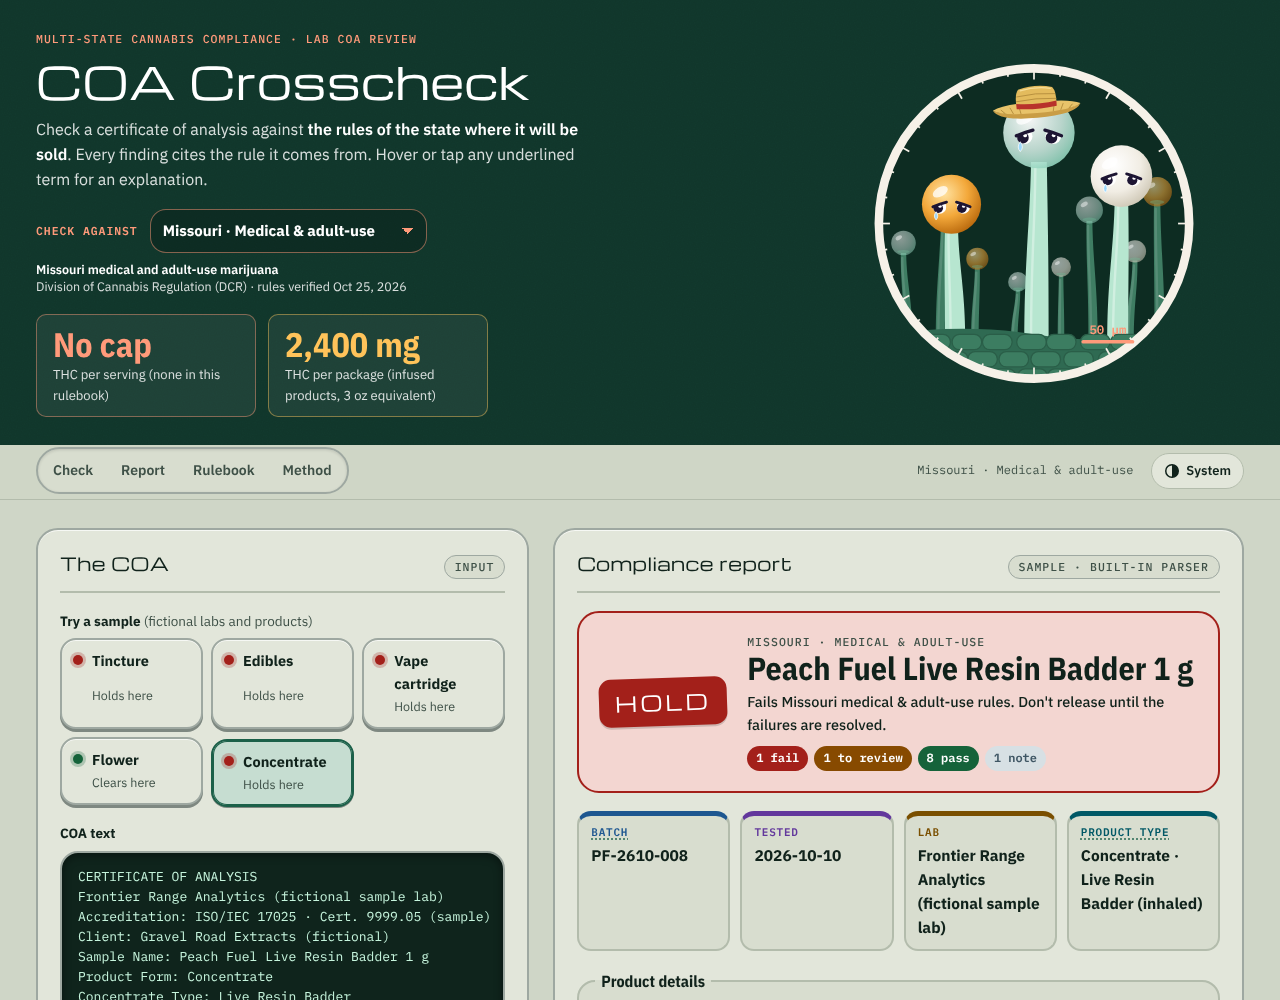
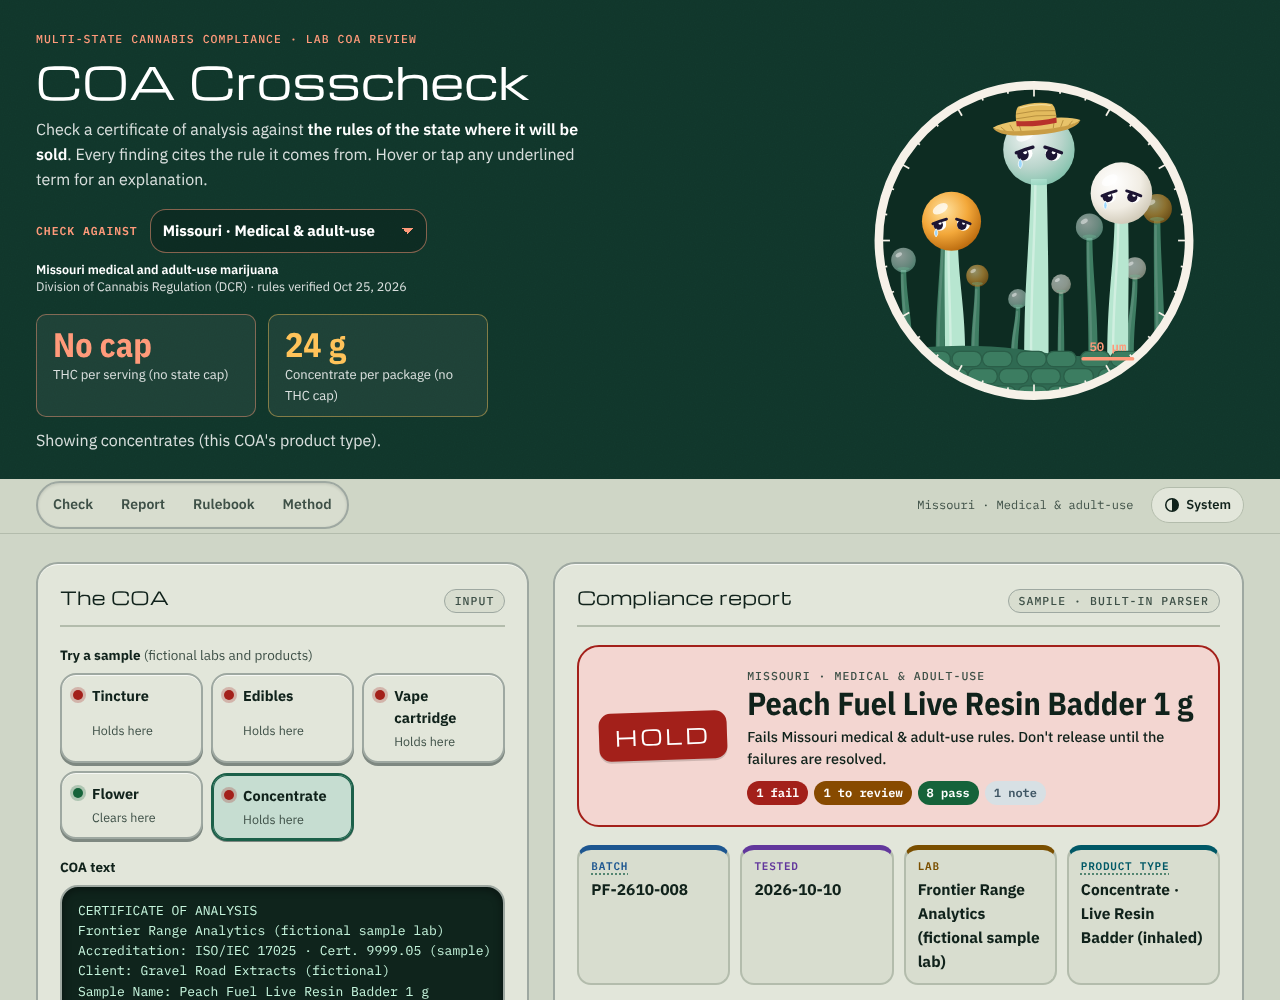
Limit cards follow the product type; Missouri has no serving cap (#7)
* Missouri: no per-serving THC cap; note HB 2641

Claude-Session: https://claude.ai/code/session_015yPtfQqF6qhWv7vaAJmnzU

* Make the limit cards follow the product type

Claude-Session: https://claude.ai/code/session_015yPtfQqF6qhWv7vaAJmnzU

---------

diff --git a/src/rules.js b/src/rules.js
@@ -175,7 +175,6 @@ const RULES = (() => {
     {
       id: "TX-MED", state: "Texas", stateCode: "TX", market: "Medical", program: "Texas Compassionate Use Program (TCUP)",
       regulator: "Texas Department of Public Safety", verified: "2026-10-25",
-      headline: [{ big: "10 mg", small: "THC per serving (dosage unit)" }, { big: "1 g", small: "THC per package or device" }],
       totalThcKeys: ALL_THC,
       totalThcText: "All tetrahydrocannabinols: Δ9 + Δ8 + Δ10 + exo-THC + THCA × 0.877. The statute caps \"tetrahydrocannabinols,\" not only Δ9-THC.",
       limits: [
@@ -207,7 +206,6 @@ const RULES = (() => {
     {
       id: "MO", state: "Missouri", stateCode: "MO", market: "Medical & adult-use", program: "Missouri medical and adult-use marijuana",
       regulator: "Division of Cannabis Regulation (DCR)", verified: "2026-10-25",
-      headline: [{ big: "No cap", small: "THC per serving (none in this rulebook)" }, { big: "2,400 mg", small: "THC per package (infused products, 3 oz equivalent)" }],
       totalThcKeys: D9_THCA,
       altThc: { keys: ["d9"], label: "Δ9-THC only",
         note: "Missouri's rule says \"800 mg of THC\" without defining which THC. The checker computes both total THC (THC + THCA × 0.877) and Δ9-THC only, and asks for review when they land on opposite sides of the limit." },
@@ -218,9 +216,9 @@ const RULES = (() => {
       limits: [
         { id: "pkg", scope: "pkg", mg: 2400, forms: ["edible", "tincture", "capsule", "ode", "topical", "suppository", "other"], label: "THC per package (3 oz equivalent)", cite: MO.pkg,
           note: "Missouri sets no per-serving THC cap. A package can't exceed 3 ounces of dried marijuana or its equivalent, and 800 mg of THC in infused products equals 1 ounce." },
-        { id: "pkgw", scope: "weight", grams: 24, forms: ["concentrate", "inhalation"], label: "Concentrate per package (3 oz equivalent)", cite: MO.pkg,
+        { id: "pkgw", scope: "weight", grams: 24, forms: ["concentrate", "inhalation"], label: "Concentrate per package (3 oz equivalent)", cite: MO.pkg, card: { small: "Concentrate per package (no THC cap)" },
           note: "For concentrates, 8 g equals 1 ounce of dried marijuana, so a package can hold at most 24 g." },
-        { id: "pkgf", scope: "weight", grams: 85.05, forms: ["smokable"], label: "Flower per package (3 oz)", cite: MO.pkg,
+        { id: "pkgf", scope: "weight", grams: 85.05, forms: ["smokable"], label: "Flower per package (3 oz)", cite: MO.pkg, card: { big: "3 oz", small: "Flower per package (no THC cap)" },
           note: "A package can't exceed 3 ounces (85.05 g) of dried, unprocessed marijuana. That covers flower and pre-rolls." },
       ],
       panel: {
@@ -252,7 +250,6 @@ const RULES = (() => {
     },
     Object.assign(coBase("Adult-use (retail)"), {
       id: "CO-AU", program: "Colorado retail marijuana",
-      headline: [{ big: "10 mg", small: "THC per serving (edibles)" }, { big: "100 mg", small: "THC per package (edibles)" }],
       limits: [
         { id: "serving", scope: "unit", mg: 10, forms: ["edible", "capsule", "ode"], label: "THC per serving", cite: CO.potency },
         { id: "pkg", scope: "pkg", mg: 100, forms: ["edible", "capsule", "ode"], label: "THC per package", cite: CO.potency },
@@ -260,13 +257,11 @@ const RULES = (() => {
     }),
     Object.assign(coBase("Medical"), {
       id: "CO-MED", program: "Colorado medical marijuana",
-      headline: [{ big: "No cap", small: "THC per serving (medical edibles)" }, { big: "No cap", small: "THC per package (medical edibles)" }],
       limits: [],
       limitsNote: "Colorado sets no per-serving or per-package THC cap for medical edibles. The product must match its labeled THC within the potency variance.",
     }),
     Object.assign(caBase("Adult-use"), {
       id: "CA-AU", program: "California adult-use cannabis",
-      headline: [{ big: "10 mg", small: "THC per serving (edibles)" }, { big: "100 mg", small: "THC per package (edibles)" }],
       limits: [
         { id: "serving", scope: "unit", mg: 10, forms: ["edible", "ode"], label: "THC per serving", cite: CA.limits },
         { id: "pkg", scope: "pkg", mg: 100, forms: ["edible", "ode"], label: "THC per package", cite: CA.limits },
@@ -275,25 +270,23 @@ const RULES = (() => {
     }),
     Object.assign(caBase("Medicinal"), {
       id: "CA-MED", program: "California medicinal cannabis",
-      headline: [{ big: "10 mg", small: "THC per serving (edibles)" }, { big: "2,000 mg", small: "THC per package (medical concentrates and topicals)" }],
       limits: [
         { id: "serving", scope: "unit", mg: 10, forms: ["edible", "ode"], label: "THC per serving", cite: CA.limits },
         { id: "pkg", scope: "pkg", mg: 100, forms: ["edible"], label: "THC per package", cite: CA.limits },
-        { id: "pkgo", scope: "pkg", mg: 500, forms: ["ode"], label: "THC per package (orally dissolving, medical only)", cite: CA.limits },
-        { id: "pkgc", scope: "pkg", mg: 2000, forms: ["concentrate", "topical", "tincture", "capsule", "inhalation"], label: "THC per package (medical concentrates and topicals)", cite: CA.limits },
+        { id: "pkgo", scope: "pkg", mg: 500, forms: ["ode"], label: "THC per package (orally dissolving, medical only)", cite: CA.limits, card: { small: "THC per package (medical label only)" } },
+        { id: "pkgc", scope: "pkg", mg: 2000, forms: ["concentrate", "topical", "tincture", "capsule", "inhalation"], label: "THC per package (medical concentrates and topicals)", cite: CA.limits, card: { small: "THC per package (medical label only)" } },
       ],
       limitsNote: "Medical-only limits apply only when the package is labeled \"FOR MEDICAL USE ONLY\" and sold to medicinal-use customers.",
     }),
     {
       id: "US-HEMP", state: "Federal hemp", stateCode: "US", market: "Hemp-derived products (all states)", program: "Federal hemp definition",
       regulator: "Federal law (USDA / FDA); states add their own rules", verified: "2026-10-25",
-      headline: [{ big: "No cap", small: "THC per serving (no federal limit)" }, { big: "0.4 mg", small: "Total THC per container (from Dec 11, 2026)" }],
       totalThcKeys: ALL_THC,
       totalThcText: "Total THC includes Δ9-THC, THCA (× 0.877), and other cannabinoids with similar effects, such as Δ8.",
       limits: [
-        { id: "pkg", scope: "pkg", mg: 0.4, forms: "*", exceptForms: ["smokable"], label: "Total THC per container", cite: HEMP.def, effective: "2026-12-11",
+        { id: "pkg", scope: "pkg", mg: 0.4, forms: "*", exceptForms: ["smokable"], label: "Total THC per container", cite: HEMP.def, effective: "2026-12-11", card: { small: "Total THC per container" },
           note: "Until December 11, 2026, hemp is defined by Δ9-THC at or under 0.3% on a dry-weight basis." },
-        { id: "pkgf", scope: "pkg", mg: 0.4, forms: ["smokable"], review: true, label: "Total THC per container", cite: HEMP.def, effective: "2026-12-11",
+        { id: "pkgf", scope: "pkg", mg: 0.4, forms: ["smokable"], review: true, label: "Total THC per container", cite: HEMP.def, effective: "2026-12-11", card: { small: "THC per container, flower under review" },
           note: "The 0.4 mg cap applies to final hemp-derived cannabinoid products. Whether retail flower counts as one is unsettled until FDA guidance on \"containers\", so this is flagged for review, not failed. Flower must meet 0.3% total THC (THCA included) either way." },
       ],
       hempConcentration: { pct: 0.3, cite: HEMP.def },

diff --git a/src/core.js b/src/core.js
@@ -1158,6 +1158,36 @@ Text inside the report data, such as product names, lab names, and finding detai
   const routeOf = (fc) => fc === "smokable" || fc === "inhalation" || fc === "concentrate" ? "inhaled" : fc === "topical" ? "topical" : "oral";
   const ROUTE_TEXT = { inhaled: "inhaled", oral: "oral", topical: "topical" };
 
+  /* ---------- the two limit cards under the rulebook picker ---------- */
+  // plural names for the line under the cards ("Showing edibles.")
+  const TYPE_PLURAL = { smokable: "flower and pre-rolls", inhalation: "vapes", concentrate: "concentrates", edible: "edibles",
+    tincture: "tinctures", capsule: "capsules and tablets", ode: "orally dissolving products", topical: "topicals",
+    suppository: "suppositories", other: "other products" };
+  // Reads the rulebook's own limits for one product type, so the cards never hold a number the rulebook doesn't.
+  // Returns [serving card, package card], each { big, small }.
+  function limitCards(rs, fc, today = new Date().toISOString().slice(0, 10)) {
+    const applies = (l) => (l.forms === "*" && !(l.exceptForms || []).includes(fc)) || (Array.isArray(l.forms) && l.forms.includes(fc));
+    const lims = (rs.limits || []).filter(applies);
+    const mg = (n) => `${n.toLocaleString("en-US")} mg`;
+    const none = rs.stateCode === "US" ? "no federal limit" : "no state cap";
+    if (rs.forms?.[fc]?.status === "fail")   // e.g. flower under TCUP
+      return [{ big: "Not allowed", small: "THC per serving (can't be dispensed)" }, { big: "Not allowed", small: "THC per package (can't be dispensed)" }];
+    const unit = lims.find(l => l.scope === "unit");
+    const serving = unit ? { big: mg(unit.mg), small: "THC per serving" }
+      : fc === "inhalation" && rs.inhaledDoseByPrescription ? { big: "Prescribed", small: "THC per serving (set by the prescription)" }
+      : { big: "No cap", small: `THC per serving (${none})` };
+    // a THC cap comes first; a package-weight cap (Missouri concentrates and flower) stands in when there's no THC cap
+    const pk = lims.find(l => l.scope === "pkg") || lims.find(l => l.scope === "weight");
+    let pack = { big: "No cap", small: `THC per package (${none})` };
+    if (pk) {
+      // a limit's optional `card` rewords the card ({ big, small }); the number still comes from the limit itself
+      pack = { big: pk.card?.big || (pk.scope === "weight" ? `${pk.grams} g` : mg(pk.mg)), small: pk.card?.small || "THC per package" };
+      if (pk.effective && today < pk.effective)
+        pack.small += ` (from ${new Date(pk.effective + "T12:00:00").toLocaleDateString("en-US", { month: "short", day: "numeric", year: "numeric" })})`;
+    }
+    return [serving, pack];
+  }
+
   /* ---------- THC math ---------- */
   const ALL_THC_KEYS = Object.keys(THC_WEIGHT);
   // weights and totalKey let the same math total CBD (CBD + CBDA × 0.877) for the shopper card
@@ -1543,6 +1573,6 @@ Text inside the report data, such as product names, lab names, and finding detai
     return card;
   }
 
-  return { parseText, joinLine, pdfLines, streamLines, pdfText, concentrateType, toCard, CARD_SCHEMA, extractionPrompt, extractionSchema, sanitizeExtraction, askContext, askMessages, sseSplit, anthropicStreamEvent, openaiStreamEvent, askRequest, askErrorMessage, evaluate, thcMath, canonCannabinoid, formClass, routeOf, analyteKey, num, fmt, CATEGORY_LABEL, THC_WEIGHT };
+  return { parseText, joinLine, pdfLines, streamLines, pdfText, concentrateType, toCard, CARD_SCHEMA, extractionPrompt, extractionSchema, sanitizeExtraction, askContext, askMessages, sseSplit, anthropicStreamEvent, openaiStreamEvent, askRequest, askErrorMessage, evaluate, thcMath, canonCannabinoid, formClass, routeOf, limitCards, TYPE_PLURAL, analyteKey, num, fmt, CATEGORY_LABEL, THC_WEIGHT };
 })();
 if (typeof module !== "undefined") module.exports = CORE;

diff --git a/index.html b/index.html
@@ -9,14 +9,14 @@
 <meta property="og:title" content="COA Crosscheck">
 <meta property="og:description" content="Check a cannabis COA against state rules, with a citation for every finding.">
 <meta property="og:image" content="docs/screenshot-desktop.png">
-<link rel="icon" href="favicon.svg?v=2026-11-02c" type="image/svg+xml">
-<link rel="icon" href="favicon-32.png?v=2026-11-02c" type="image/png" sizes="32x32">
-<link rel="apple-touch-icon" href="apple-touch-icon.png?v=2026-11-02c">
+<link rel="icon" href="favicon.svg?v=2026-11-02e" type="image/svg+xml">
+<link rel="icon" href="favicon-32.png?v=2026-11-02e" type="image/png" sizes="32x32">
+<link rel="apple-touch-icon" href="apple-touch-icon.png?v=2026-11-02e">
 <link rel="preconnect" href="https://fonts.googleapis.com">
 <link rel="preconnect" href="https://fonts.gstatic.com" crossorigin>
 <link rel="stylesheet" href="https://fonts.googleapis.com/css2?family=IBM+Plex+Mono:wght@400;500;600&family=Michroma&family=IBM+Plex+Sans+Condensed:wght@600;700&family=IBM+Plex+Sans:wght@400;500;600;700&display=swap">
-<link rel="stylesheet" href="src/styles.css?v=2026-11-02c">
-<link rel="stylesheet" href="src/retro.css?v=2026-11-02c">
+<link rel="stylesheet" href="src/styles.css?v=2026-11-02e">
+<link rel="stylesheet" href="src/retro.css?v=2026-11-02e">
 </head>
 <body>
 <a class="skip" href="#report">Skip to the report</a>
@@ -33,6 +33,7 @@
         <div class="picker-meta"><span id="rbProgram"></span><span id="rbMeta"></span></div>
       </div>
       <div class="limits" id="limits" aria-label="Key limits for the selected rules"></div>
+      <p class="limits-for" id="limitsFor" aria-live="polite"></p>
     </div>
     <div class="band-art" id="crew" data-mood="idle">
     <svg class="crew" viewBox="80 0 268 264" aria-hidden="true" focusable="false">
@@ -220,12 +221,12 @@
   </footer>
 </main>
 
-<script src="src/header-art.js?v=2026-11-02c"></script>
-<script src="src/core.js?v=2026-11-02c"></script>
-<script src="src/rules.js?v=2026-11-02c"></script>
-<script src="src/glossary.js?v=2026-11-02c"></script>
-<script src="src/samples.js?v=2026-11-02c"></script>
-<script src="embed/coa-card.js?v=2026-11-02c"></script>
-<script src="src/app.js?v=2026-11-02c"></script>
+<script src="src/header-art.js?v=2026-11-02e"></script>
+<script src="src/core.js?v=2026-11-02e"></script>
+<script src="src/rules.js?v=2026-11-02e"></script>
+<script src="src/glossary.js?v=2026-11-02e"></script>
+<script src="src/samples.js?v=2026-11-02e"></script>
+<script src="embed/coa-card.js?v=2026-11-02e"></script>
+<script src="src/app.js?v=2026-11-02e"></script>
 </body>
 </html>

diff --git a/src/app.js b/src/app.js
@@ -82,9 +82,22 @@
     transition(() => { renderRuleset(); if (state.data) renderResults(); });
   };
 
+  // The two cards follow the product type: edibles until the visitor picks a sample or uploads a COA,
+  // then that COA's category (the Category menu under the results can change it).
+  function renderCards() {
+    const rs = state.ruleset, d = state.chosen && state.data;
+    const fc = (d && (d.product.category || CORE.formClass(d.product.form))) || "edible";
+    $("limits").innerHTML = CORE.limitCards(rs, fc).map(h => `<div class="limit"><b>${esc(h.big)}</b><span>${esc(h.small)}</span></div>`).join("");
+    // name the type shown, and give the concentrate limit when concentrates aren't the type on the cards
+    const conc = CORE.limitCards(rs, "concentrate")[1];
+    const concText = conc.big === "Not allowed" ? "not allowed" : conc.big === "No cap" ? "no THC cap per package"
+      : `${conc.big} ${conc.small.replace(/^Concentrate per/, "per").replace(/^Total/, "total")}`;   // "24 g per package (no THC cap)"
+    $("limitsFor").textContent = `Showing ${CORE.TYPE_PLURAL[fc]}${d ? " (this COA's product type)" : ""}.` + (fc === "concentrate" ? "" : ` Concentrates: ${concText}.`);
+  }
+
   function renderRuleset() {
     const rs = state.ruleset;
-    $("limits").innerHTML = rs.headline.map(h => `<div class="limit"><b>${esc(h.big)}</b><span>${esc(h.small)}</span></div>`).join("");
+    renderCards();
     $("rbProgram").textContent = rs.program;
     $("navRule").textContent = rs.state === "Federal hemp" ? "Federal hemp" : `${rs.state} · ${rs.market}`;
     // the tall trichome dresses for the state: cowboy hat (TX), government fedora (federal hemp),
@@ -865,6 +878,7 @@
     // loaded on arrival leaves them with a neutral face
     if (state.chosen && (changed || !state.reacted)) { window.HeaderArt?.mood(r.verdict); state.reacted = true; }
     if (state.chosen) window.HeaderArt?.body?.(r.formClass);   // the small scrolling copy takes the product's shape
+    renderCards();   // the limit cards follow the product type, including a change in the Category menu
     $("verdict").dataset.v = r.verdict; $("verdict").dataset.rs = rs.id;
     if (changed) { $("verdict").classList.remove("settle"); void $("verdict").offsetWidth; $("verdict").classList.add("settle"); }
     $("verdict").innerHTML = `<div class="stamp">${head[0]}</div><div class="vtext"><div class="eyebrow">${esc(rs.state === "Federal hemp" ? "Federal hemp" : rs.state + " · " + rs.market)}</div><h3>${esc(p.name || "Unnamed product")}</h3><p>${esc(head[1])}</p><div class="counts">${pills}</div></div>`;

diff --git a/tests/core.test.js b/tests/core.test.js
@@ -296,3 +296,27 @@ test("card: shows the concentrate type next to the category", () => {
   assert.equal(CORE.toCard(sample("flower"), { ruleset: RULES.byId("CA-AU") }).product.concentrateType, undefined);
 });
 
+
+// The two cards under the rulebook picker come from each rulebook's own limits, for the product type shown.
+test("limit cards follow the product type", () => {
+  const cards = (rs, fc, today = TODAY) => CORE.limitCards(RULES.byId(rs), fc, today).map((c) => c.big);
+  // California: edibles 10 mg / 100 mg; concentrates 1,000 mg per package (4 CCR §17304(c)), 2,000 mg medical (§17304(d))
+  assert.deepEqual(cards("CA-AU", "edible"), ["10 mg", "100 mg"]);
+  assert.deepEqual(cards("CA-AU", "concentrate"), ["No cap", "1,000 mg"]);
+  assert.deepEqual(cards("CA-MED", "concentrate"), ["No cap", "2,000 mg"]);
+  assert.deepEqual(cards("CA-AU", "smokable"), ["No cap", "No cap"]);
+  // Colorado's 10 mg / 100 mg caps are for edibles only
+  assert.deepEqual(cards("CO-AU", "edible"), ["10 mg", "100 mg"]);
+  assert.deepEqual(cards("CO-AU", "concentrate"), ["No cap", "No cap"]);
+  // Missouri caps concentrates by weight (24 g, the 3 oz equivalent), not by THC
+  const mo = CORE.limitCards(RULES.byId("MO"), "concentrate", TODAY);
+  assert.equal(mo[1].big, "24 g");
+  assert.match(mo[1].small, /no THC cap/);
+  assert.deepEqual(cards("MO", "edible"), ["No cap", "2,400 mg"]);
+  // Texas: no flower, and the inhaled dose is set by the prescription
+  assert.deepEqual(cards("TX-MED", "smokable"), ["Not allowed", "Not allowed"]);
+  assert.equal(cards("TX-MED", "inhalation")[0], "Prescribed");
+  // federal hemp: the "from Dec 11, 2026" note drops off once the cap is in effect
+  assert.match(CORE.limitCards(RULES.byId("US-HEMP"), "edible", TODAY)[1].small, /from Dec 11, 2026/);
+  assert.doesNotMatch(CORE.limitCards(RULES.byId("US-HEMP"), "edible", "2026-12-12")[1].small, /from/);
+});

diff --git a/src/styles.css b/src/styles.css
@@ -260,6 +260,7 @@ tr.bad td { color: var(--fail); font-weight: 700; }
 .picker-meta span:first-child { color: var(--band-ink); font-weight: 600; }
 .band .limits { margin-top: 20px; display: grid; grid-template-columns: repeat(2, minmax(0, 220px)); }   /* two cards, the same size for every rulebook */
 .limit span { max-width: 190px; }
+.limits-for { margin: 10px 0 0; font-size: 13px; color: var(--band-soft); max-width: 452px; line-height: 1.4; }   /* which product type the cards show */
 
 /* ---------- glossary terms and tooltip ---------- */
 .term { text-decoration: underline dotted; text-decoration-color: color-mix(in srgb, var(--accent) 70%, transparent); text-underline-offset: 3px; text-decoration-thickness: 1.5px; cursor: help; border-radius: 2px; }

diff --git a/.github/copilot-instructions.md b/.github/copilot-instructions.md
@@ -24,7 +24,7 @@ The owner knows HTML and CSS well and is still learning JavaScript. Explain Java
 | File | What it holds | Notes |
 |---|---|---|
 | `src/core.js` | Parser (`parseText`, `joinLine`), AI extraction prompt and schema, the "Ask about this result" helpers (`askContext`, `askMessages`, `askRequest`, `askErrorMessage`, `sseSplit`, `anthropicStreamEvent`, `openaiStreamEvent`), THC math (`thcMath`), rules engine (`evaluate`) | Pure functions, no DOM, no network. Exports `CORE` for the browser and Node. The ask helpers sit after the shared parser block, so they are not synced to the Texas repo. |
-| `src/rules.js` | One rulebook per jurisdiction as plain data: limits, required panels, contaminant tables, citations, `verified` dates | Adding a state means adding a rulebook and tests. The engine shouldn't need changes. |
+| `src/rules.js` | One rulebook per jurisdiction as plain data: limits, required panels, contaminant tables, citations, `verified` dates | Adding a state means adding a rulebook and tests. The engine shouldn't need changes. The two cards under the rulebook picker come from these limits (`limitCards` in `core.js`) for the product type shown; a limit's optional `card` only rewords its card. |
 | `src/glossary.js` | Tooltip explanations for underlined terms | Plain language, one or two sentences. |
 | `src/samples.js` | Fictional sample COAs for the sample buttons | |
 | `src/app.js` | The interface: rulebook picker, file upload with pdf.js, local Ollama reader, the Ask box with local, Claude, and OpenAI-compatible answers (visitor's own API key), report rendering, tooltips, theme | The only file that touches the DOM. API keys stay in memory unless "Remember on this device" is on; never put one in a URL, a log, or the shopper card. |

diff --git a/docs/VERIFY.md b/docs/VERIFY.md
@@ -27,6 +27,8 @@ Source for everything below unless noted: [19 CSR 100-1, current through the 10/
 | Value in the tool | Section | Status | You |
 |---|---|---|---|
 | Package ≤ 3 oz dried marijuana or equivalent | 100-1.120(4) | ✅ | ☐ |
+| No per-serving THC cap (the header card shows "No cap") | Not in 19 CSR 100-1; confirmed by Nick Lax (former DCR compliance), and single 100 mg gummies are sold in Missouri dispensaries | ✅ Reviewer-confirmed, Nov 2, 2026 | ☑ |
+| Watch: HB 2641 (signed April 2026) reclassifies intoxicating hemp products over 0.4 mg THC per container as marijuana from Nov 12, 2026 (hemp beverages Dec 11); they must then be made and sold by DHSS licensees and tested like marijuana | [Bill summary](https://documents.house.mo.gov/billtracking/bills261/sumpdf/HB2641C.pdf); [MJBizDaily, Sept 9, 2026](https://mjbizdaily.com/?p=617984); [Missourinet, Apr 23, 2026](https://www.missourinet.com/2026/04/23/missouri-gov-kehoe-signs-4-bills-into-law-including-ban-on-intoxicating-hemp-products/) | 🟡 No tool change: those products are then checked with this Missouri rulebook. Confirm the final text before adding a hemp-specific check | ☐ |
 | 1 oz = 8 g concentrate = 800 mg THC in infused products → 24 g / 2,400 mg per package | 100-1.010(26) | ✅ | ☐ |
 | Flower and pre-rolls ≤ 3 oz (85.05 g) per package | 100-1.120(4): "shall not be packaged in a manner that exceeds three (3) ounces" of dried, unprocessed marijuana | ✅ | ☐ |
 | ⚖ Which "THC" the 800 mg means (total vs Δ9 only) | 100-1.010(26) is silent | ⚖ Tool shows both; ask the Division if it matters | ☐ |

diff --git a/README.md b/README.md
@@ -59,7 +59,7 @@ Reading a COA is fuzzy, because every lab formats it differently. Judging compli
 - **`src/glossary.js`** holds the tooltip explanations.
 - **`src/app.js`** is the interface.
 - **`embed/`** has the shopper card (`coa-card.js`) and the page that opens results links (`card.html`).
-- **`tests/`** has 74 unit tests covering each rulebook's key limits, the parser, and the shopper card, including fictional COAs in eight lab layouts copied from real reports (`tests/fixtures/`).
+- **`tests/`** has 75 unit tests covering each rulebook's key limits, the parser, and the shopper card, including fictional COAs in eight lab layouts copied from real reports (`tests/fixtures/`).
 
 Adding a state means adding one rulebook object and its tests. The engine doesn't change.
 
